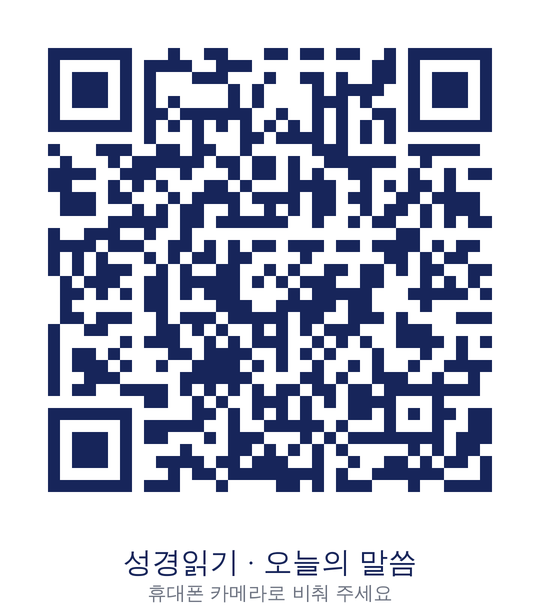
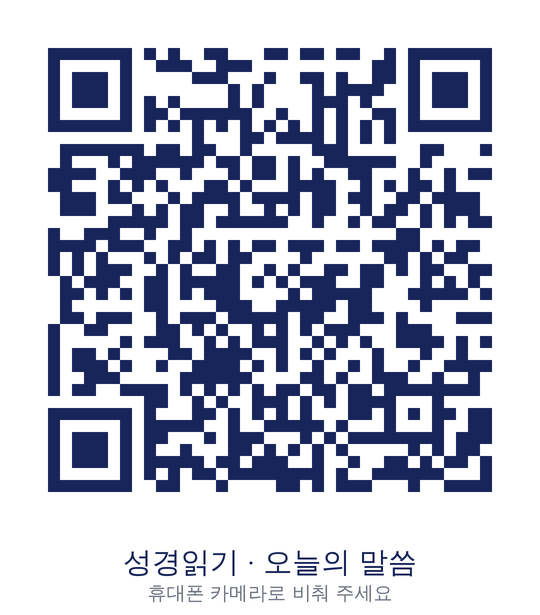
QR 이 안 읽히던 것 고침 — 형식정보를 규격과 반대로 심고 있었다
읽히지 않은 까닭
- 형식정보 15비트를 최하위 비트부터 놓았다. 규격은 최상위 비트부터다.
  비트 순서가 통째로 뒤집혀 있었으니 스캐너가 등급도 마스크도 읽지 못했다.
- 두 번째 사본은 한 칸씩 밀려 있었다. 7번 비트가 항상 검은 모듈 자리에
  들어갔다가 덮어써져 사라졌고, 가로줄이 n-8 이 아니라 n-7 에서 시작했다.

지난번 검사가 이것을 놓친 까닭
- 되읽는 코드가 인코더와 같은 순서를 쓰고 있었다. 같은 실수를 공유하니
  왕복 검사는 통과할 수밖에 없었다. 왕복만으로는 검증이 되지 않는다.

이번에는 바깥 기준과 대조했다
- 형식정보: 규격에 공표된 값 여섯 개와 대조해 일치. 만들어지는 32개의
  최소 해밍거리가 7 인 것도 확인(BCH(15,5) 의 성질).
- 리드-솔로몬: ISO/IEC 18004 부속서의 예제(버전1-M, 01234567)와
  오류정정 코드워드 10개가 바이트 단위로 일치.
- 형식정보 자리: 심은 뒤 두 사본을 각각 꺼내 규격 값과 대조. 둘 다 일치.
- 그림: 만든 PNG 를 픽셀부터 다시 읽어 격자로 되돌린 뒤 주소가 나오는지
  확인. 네 가지 모두 통과.

assets/qr 의 네 가지를 모두 다시 뽑았다.

diff --git a/scripts/qr-encode.py b/scripts/qr-encode.py
@@ -190,17 +190,20 @@ def fmt_bits(ecl,mask):
     return ((d<<10)|v) ^ 0b101010000010010
 
 def put_format(m,n,ecl,mask):
+    """형식정보 15비트를 두 곳에 심는다. 규격은 최상위 비트(14번)부터 놓는다."""
     f=fmt_bits(ecl,mask)
     for i in range(15):
-        b=(f>>i)&1
-        if i<6: m[8][i]=b
+        b=(f>>(14-i))&1
+        # 사본 1 — 왼쪽 위 파인더 둘레
+        if   i<6:  m[8][i]=b
         elif i==6: m[8][7]=b
         elif i==7: m[8][8]=b
         elif i==8: m[7][8]=b
-        else: m[14-i][8]=b
-        if i<8: m[n-1-i][8]=b
-        else: m[8][n-15+i]=b
-    m[n-8][8]=1
+        else:      m[14-i][8]=b
+        # 사본 2 — 왼쪽 아래 세로 7칸, 오른쪽 위 가로 8칸
+        if i<7: m[n-1-i][8]=b
+        else:   m[8][n-15+i]=b
+    m[n-8][8]=1                      # 항상 검은 모듈
 
 def put_version(m,n,v):
     if v<7: return
